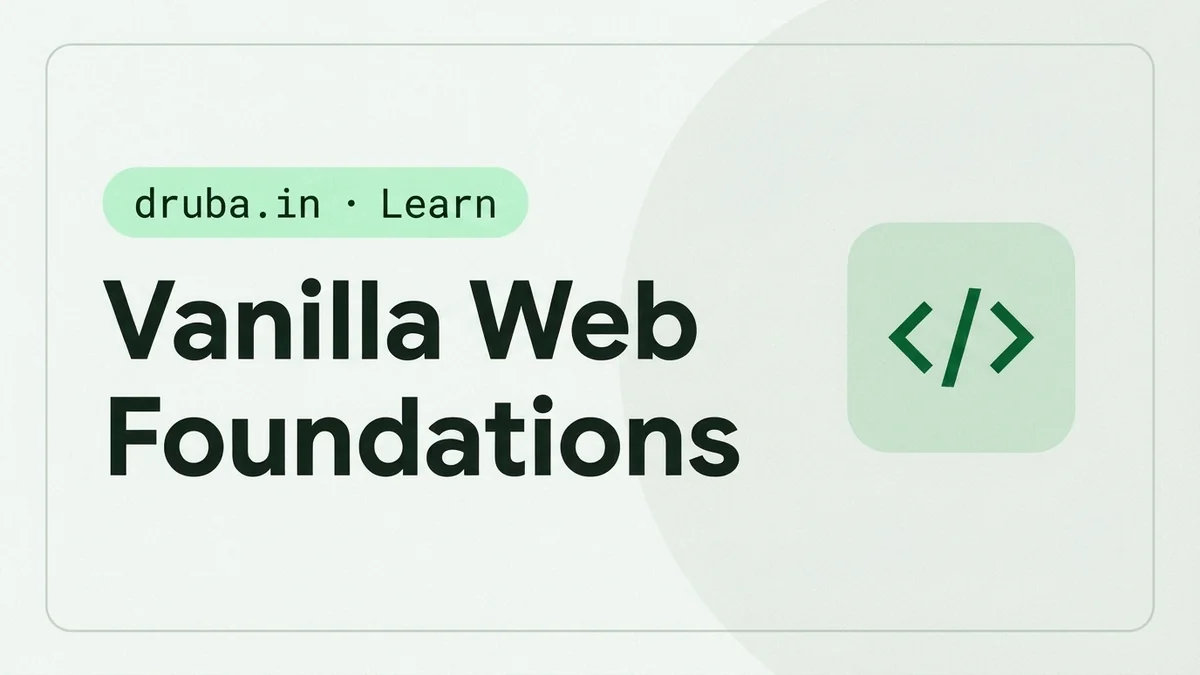
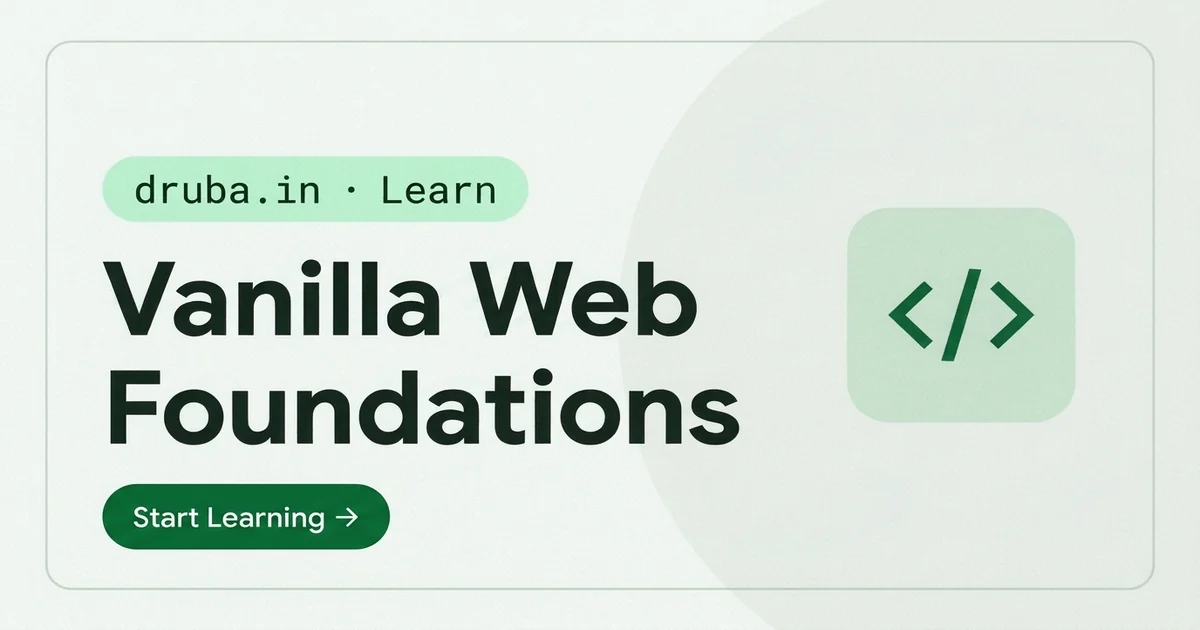
Resize OG image to 1200x630 and add Start Learning CTA

Changed region(s): [[0.0617, 0.754, 0.3392, 0.8746]]

diff --git a/index.html b/index.html
@@ -16,7 +16,7 @@
   <meta property="og:image" content="https://druba.in/learn/og-image.webp">
   <meta property="og:image:type" content="image/webp">
   <meta property="og:image:width" content="1200">
-  <meta property="og:image:height" content="675">
+  <meta property="og:image:height" content="630">
   <meta property="og:image:alt" content="Vanilla Web Foundations — druba.in · Learn">
 
   <!-- Twitter Card -->
